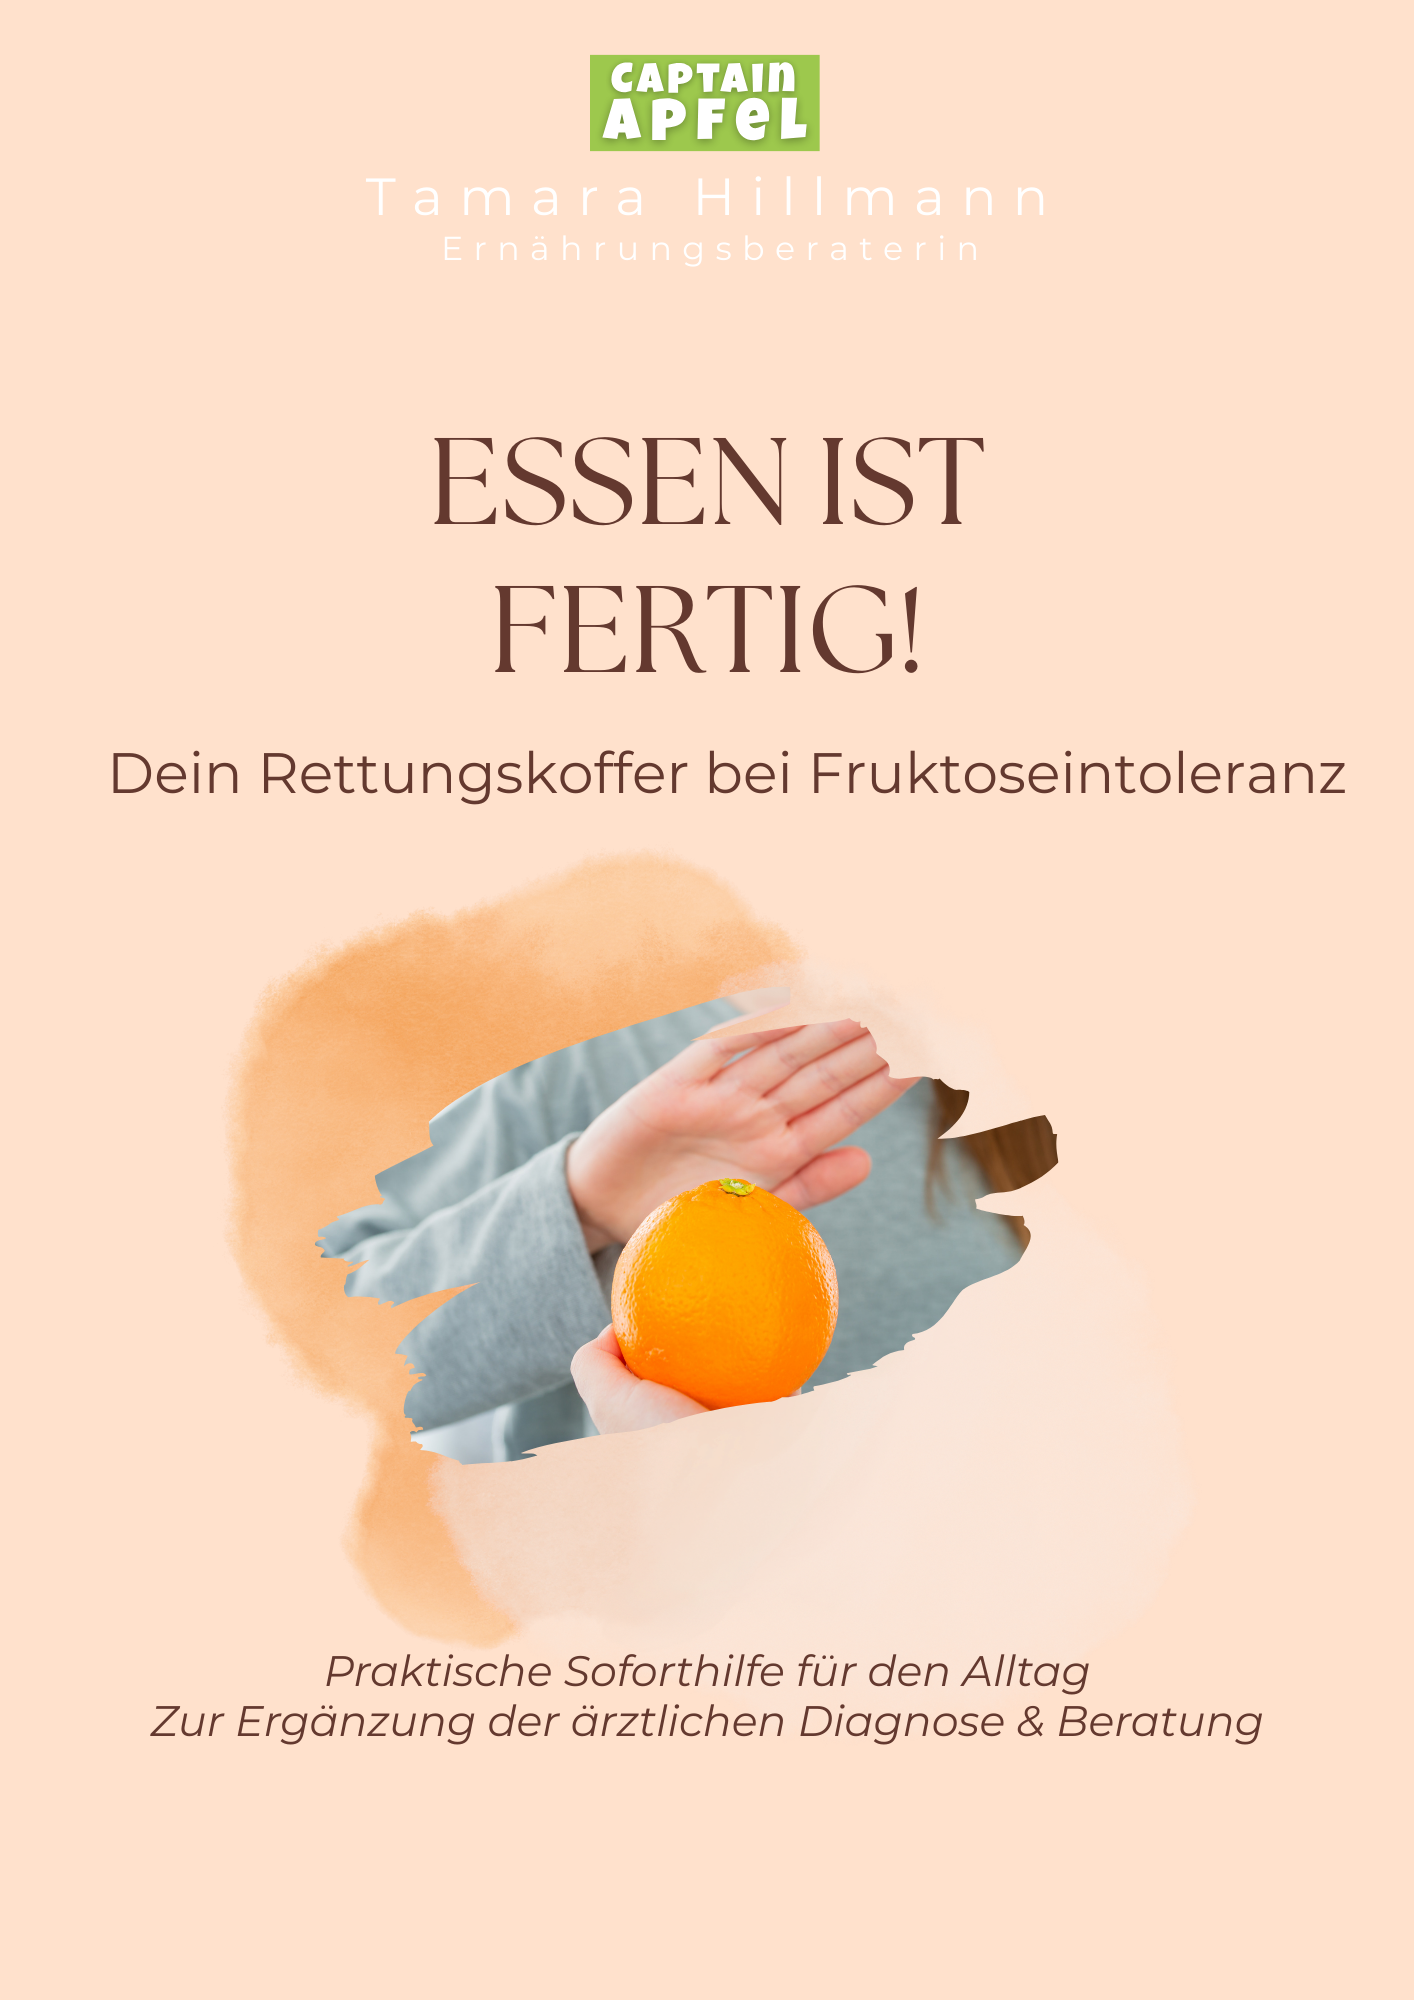
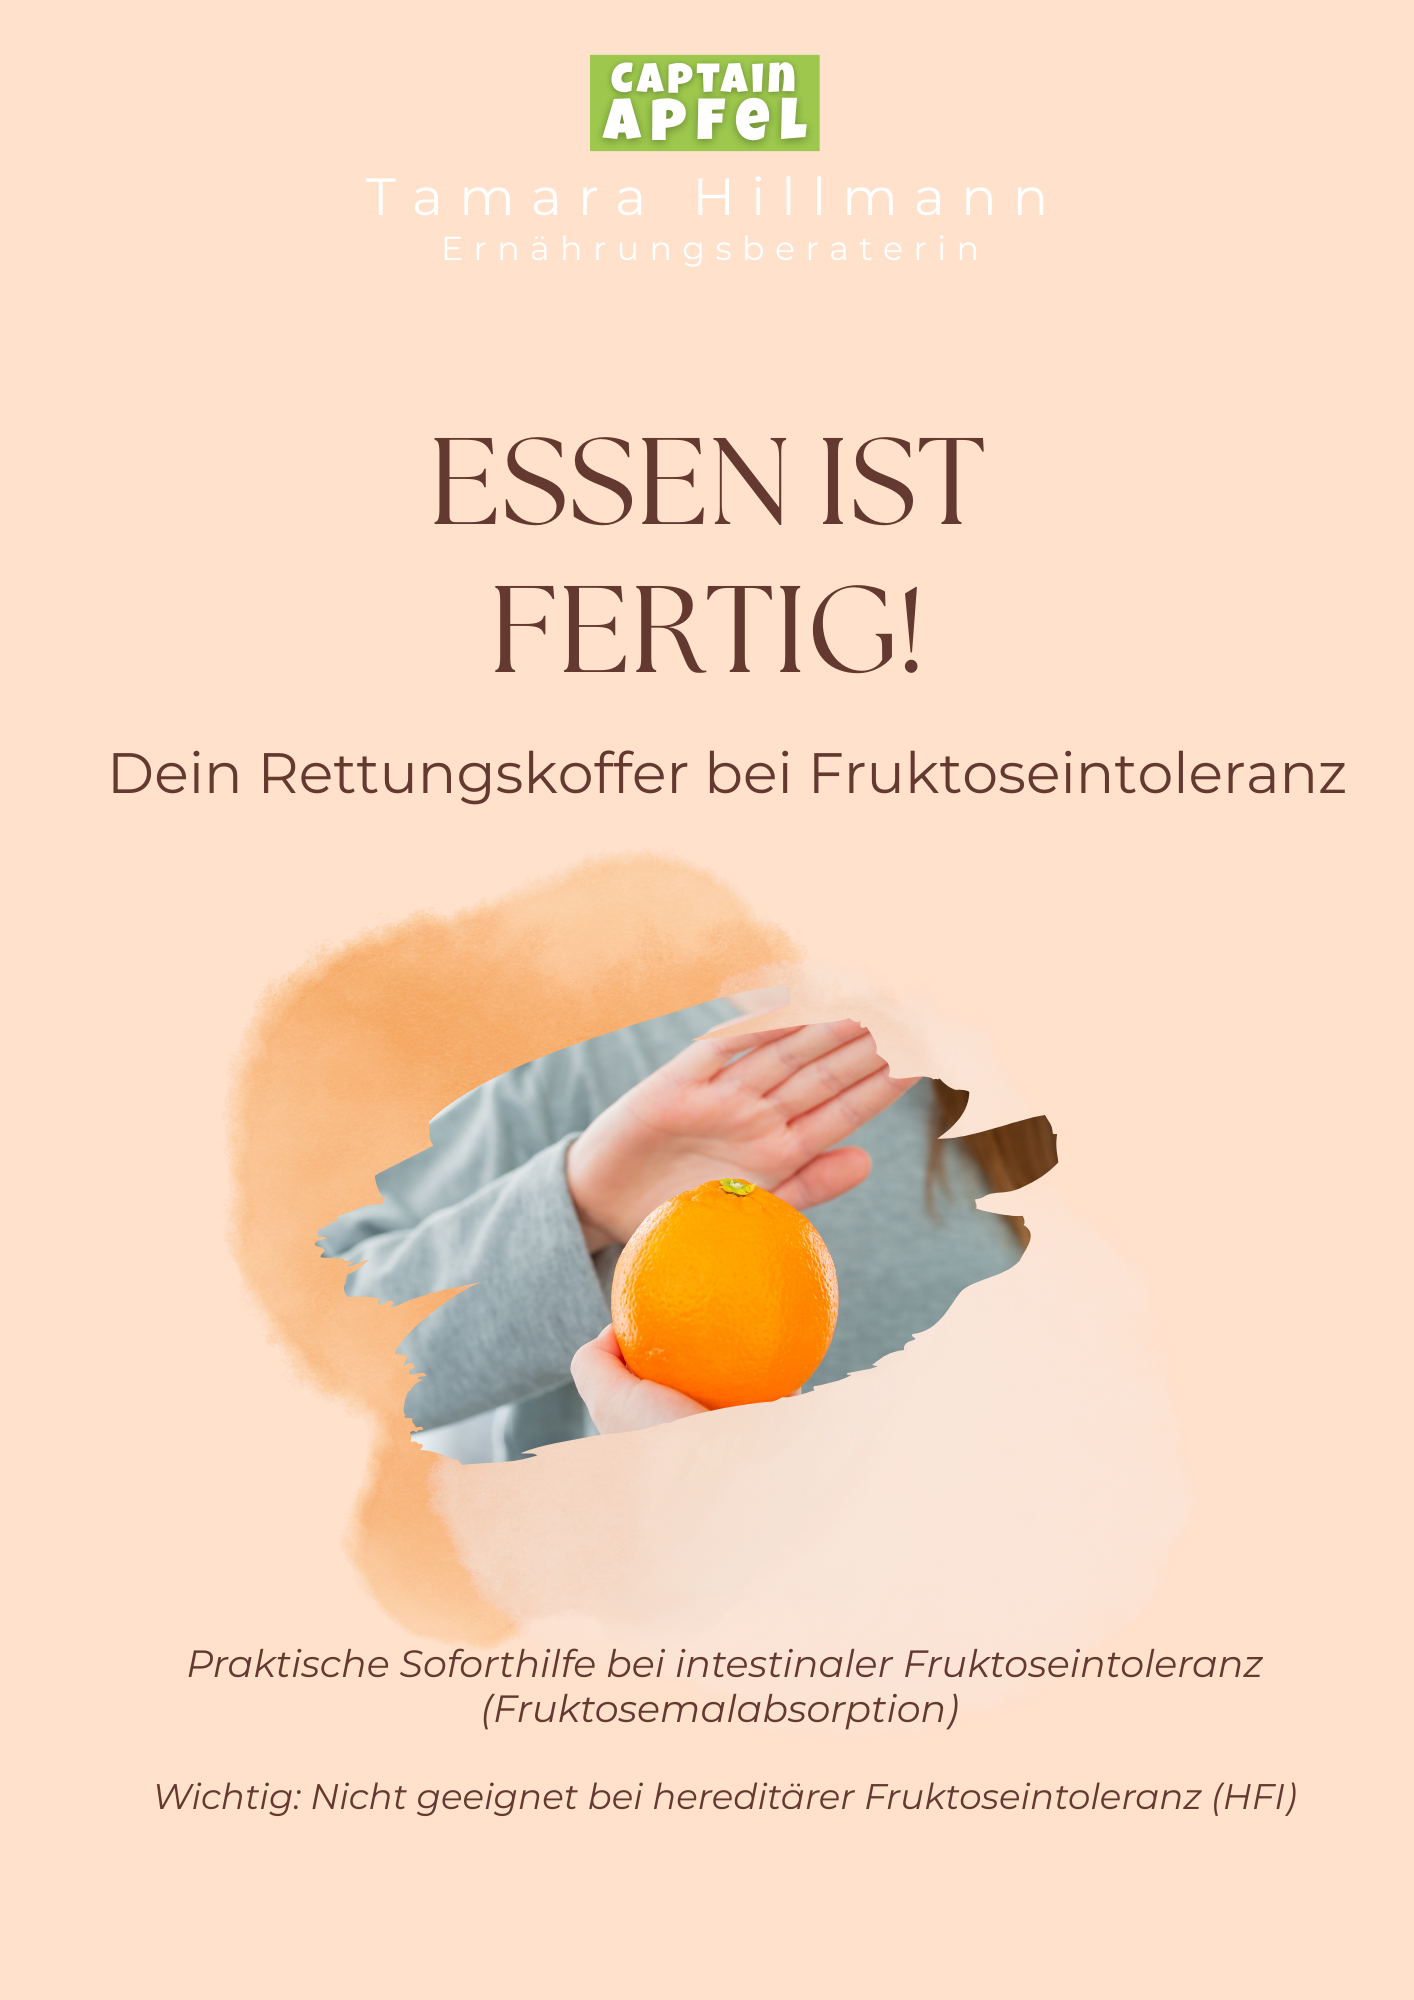
Changes

Changed region(s): [[0.1245, 0.806, 0.9024, 0.899]]

diff --git a/src/pages/EssenIstFertig.tsx b/src/pages/EssenIstFertig.tsx
@@ -184,6 +184,11 @@ const EssenIstFertig = () => {
                     Die Hilfe für dein Kind nach der Diagnose – 63 Seiten Wissen, Vorlagen & Rezepte.
                   </p>
 
+                  <p className="text-sm text-muted-foreground text-center leading-relaxed italic">
+                    Praktische Soforthilfe bei intestinaler Fruktosemalabsorption.<br />
+                    <span className="font-medium">(Wichtig: Nicht geeignet bei hereditärer Fruktoseintoleranz / HFI)</span>
+                  </p>
+
                   <ul className="space-y-2 text-sm text-muted-foreground">
                     <li className="flex items-start gap-2">
                       <span className="w-1.5 h-1.5 bg-primary rounded-full mt-2 flex-shrink-0"></span>
